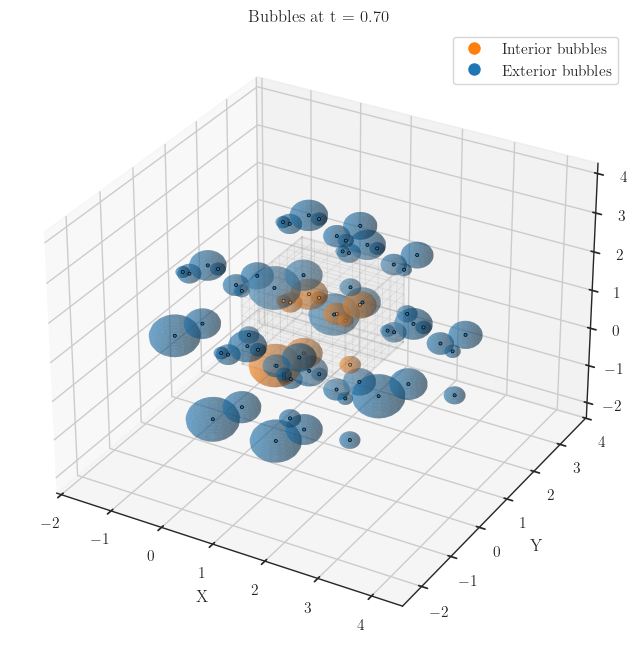
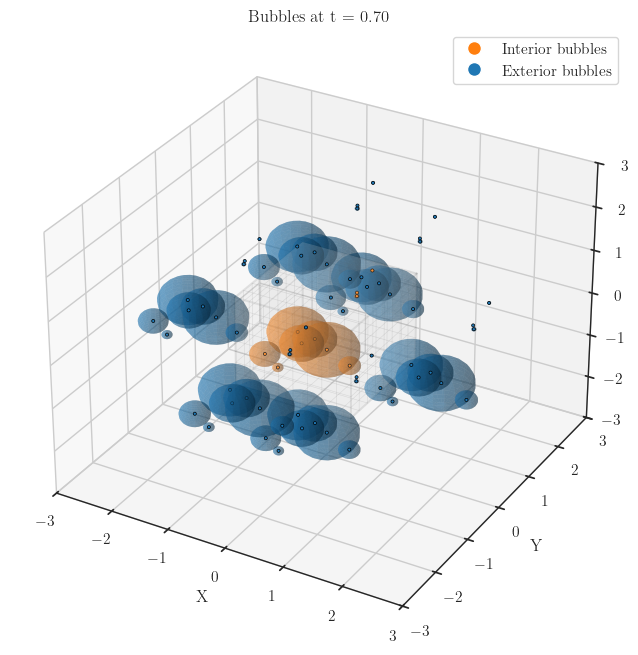
docs: update lattice_bubbles

diff --git a/docs/examples/lattice_bubbles.py b/docs/examples/lattice_bubbles.py
@@ -79,7 +79,7 @@ bubbles_interior = np.array([[0.0, 0.0, 0.0, L], [1.0, L, 0.0, 0.0]])
 bubbles_exterior = np.array([[0.0, 0.0, 0.0, 2 * L], [1.0, 3 * L, 0.0, 0.0]])
 
 # Below we create a combination of bubbles on a lattice
-lattice_bubbles_empty = many_bubbles.LatticeBubbles.with_bubbles(
+lattice_bubbles_empty = many_bubbles.LatticeBubbles(
     bubbles_interior=bubbles_interior,
     bubbles_exterior=bubbles_exterior,
     lattice=lattice_empty,
@@ -87,12 +87,12 @@ lattice_bubbles_empty = many_bubbles.LatticeBubbles.with_bubbles(
 
 # Note that is is optional to pass bubbles_exterior as an input argument
 # we can always generate the bubbles_exterior with a built-in boundary conditions later
-lattice_bubbles_cartesian = many_bubbles.LatticeBubbles.with_bubbles(
+lattice_bubbles_cartesian = many_bubbles.LatticeBubbles(
     bubbles_interior=bubbles_interior,
     bubbles_exterior=None,
     lattice=lattice_cartesian,
 )
-lattice_bubbles_spherical = many_bubbles.LatticeBubbles.with_bubbles(
+lattice_bubbles_spherical = many_bubbles.LatticeBubbles(
     bubbles_interior=bubbles_interior,
     bubbles_exterior=None,
     lattice=lattice_spherical,
@@ -111,7 +111,7 @@ lattice_bubbles_spherical.with_boundary_condition(boundary_condition="reflection
 
 try:
     bubbles_interior = np.array([[0.0, 0.0, 0.0, L], [1.0, L * 1.0001, 0.0, 0.0]])
-    lattice_bubbles = many_bubbles.LatticeBubbles.with_bubbles(
+    lattice_bubbles = many_bubbles.LatticeBubbles(
         bubbles_interior=bubbles_interior,
         bubbles_exterior=None,
         lattice=lattice_cartesian,
@@ -122,7 +122,7 @@ except Exception:
 try:
     bubbles_interior = np.array([[0.0, 0.0, 0.0, L], [1.0, L, 0.0, 0.0]])
     bubbles_exterior = np.array([[0.0, 0.0, 0.0, 0.5 * L], [1.0, 0.5 * L, 0.0, 0.0]])
-    lattice_bubbles = many_bubbles.LatticeBubbles.with_bubbles(
+    lattice_bubbles = many_bubbles.LatticeBubbles(
         bubbles_interior=bubbles_interior,
         bubbles_exterior=bubbles_exterior,
         lattice=lattice_spherical,
@@ -132,7 +132,7 @@ except Exception:
 
 try:
     bubbles_interior = np.array([[0.0, 0.0, 0.0, L], [2 * L, 0.0, 0.0, 0.0]])
-    lattice_bubbles = many_bubbles.LatticeBubbles.with_bubbles(
+    lattice_bubbles = many_bubbles.LatticeBubbles(
         bubbles_interior=bubbles_interior,
         bubbles_exterior=None,
         lattice=lattice_empty,
@@ -152,7 +152,7 @@ except Exception:
 bubbles_interior = np.array(
     [[0.0, 10.0, 0.0, 1.0], [1.0, 0.0, 10.0, 0.0], [2.0, 0.0, 0.0, 10.0]]
 )
-lattice_bubbles_cartesian = many_bubbles.LatticeBubbles.with_bubbles(
+lattice_bubbles_cartesian = many_bubbles.LatticeBubbles(
     bubbles_interior=bubbles_interior,
     bubbles_exterior=None,
     lattice=lattice_cartesian,
@@ -705,17 +705,28 @@ class LatticeBubblesVisualizer:
 
 # %%
 # Load bubbles from file, and only take the first 10 bubbles for visualization purpose
-bubbles_interior = np.loadtxt("./inputs/confY.txt")
 bubbles_interior = bubbles_interior[:10]
 
 L = 2.0
-lattice_bubbles_cartesian = many_bubbles.LatticeBubbles.with_bubbles(
-    bubbles_interior=bubbles_interior,
-    lattice=many_bubbles.CartesianLattice(
-        origin=[0.0, 0.0, 0.0], basis=[[L, 0.0, 0.0], [0.0, L, 0.0], [0.0, 0.0, L]]
-    ),
+nucleation_strategy = many_bubbles.FixedNucleationRate(
+    beta=1,
+    gamma0=1,
+    t0=0.0,
+    d_p0=0.01,
+    seed=0,
+    # Method to compute lattice volume that is outside of all bubbles. "approximation" means that volume_remaining = volume_lattice - sum_n(volume_bubble_n)
+    method="approximation",
 )
-lattice_bubbles_cartesian.with_boundary_condition("periodic")
+lattice_bubbles_cartesian = nucleation_strategy.nucleate(
+    lattice=many_bubbles.CartesianLattice(
+        origin=[-L / 2, -L / 2, -L / 2],
+        basis=[[L, 0.0, 0.0], [0.0, L, 0.0], [0.0, 0.0, L]],
+    ),
+    boundary_condition="periodic",
+)
+
+# %%
+lattice_bubbles_cartesian.bubbles_interior.shape
 
 # %%
 # Assuming you have a lattice_bubbles object
@@ -768,6 +779,9 @@ visualizer_cartesian.plot_lattice(
     fig, ax, skeleton_alpha=0.1, fill_alpha=0.1, show_grid=True
 )
 visualizer_cartesian.plot_bubbles(fig, ax, t=0.7, show_bubbles_exterior=True, alpha=0.4)
+ax.set_xlim(-1.5 * L, 1.5 * L)
+ax.set_ylim(-1.5 * L, 1.5 * L)
+ax.set_zlim(-1.5 * L, 1.5 * L)
 fig.savefig(
     f"./figures/many_bubbles/many_bubbles_at_time_cartesian.png",
     bbox_inches="tight",
@@ -776,7 +790,6 @@ fig.savefig(
 fig.show()
 
 # %%
-L = 1.0
 nucleation_strategy = many_bubbles.FixedNucleationRate(
     beta=1,
     gamma0=1,
@@ -787,9 +800,12 @@ nucleation_strategy = many_bubbles.FixedNucleationRate(
     method="approximation",
 )
 lattice_bubbles_spherical = nucleation_strategy.nucleate(
-    lattice=many_bubbles.SphericalLattice(center=[0.0, 0.0, 0.0], radius=2 * L),
+    lattice=many_bubbles.SphericalLattice(center=[0.0, 0.0, 0.0], radius=L),
     boundary_condition="reflection",
 )
+
+# %%
+lattice_bubbles_spherical.bubbles_interior.shape
 
 # %%
 # Assuming you have a lattice_bubbles object
@@ -842,6 +858,10 @@ visualizer_spherical.plot_bubbles(fig, ax, t=0.7, show_bubbles_exterior=True, al
 visualizer_spherical.plot_lattice(
     fig, ax, skeleton_alpha=0.1, fill_alpha=0.1, show_grid=True
 )
+ax.set_box_aspect((1, 1, 1))
+ax.set_xlim(-2 * L, 2 * L)
+ax.set_ylim(-2 * L, 2 * L)
+ax.set_zlim(-2 * L, 2 * L)
 fig.savefig(
     f"./figures/many_bubbles/many_bubbles_at_time_spherical.png",
     bbox_inches="tight",

diff --git a/docs/examples/generalized_bulkflow.py b/docs/examples/generalized_bulkflow.py
@@ -634,7 +634,7 @@ bubbles_interior = np.array(
 
 lattice = many_bubbles.EmptyLattice()
 
-lattice_bubbles = many_bubbles.LatticeBubbles.with_bubbles(
+lattice_bubbles = many_bubbles.LatticeBubbles(
     bubbles_interior=bubbles_interior,
     lattice=lattice,
 )
@@ -749,7 +749,7 @@ lattice = many_bubbles.CartesianLattice(
     origin=[0.0, 0.0, 0.0], basis=[[L, 0.0, 0.0], [0.0, L, 0.0], [0.0, 0.0, L]]
 )
 
-lattice_bubbles = many_bubbles.LatticeBubbles.with_bubbles(
+lattice_bubbles = many_bubbles.LatticeBubbles(
     bubbles_interior=bubbles_interior,
     lattice=lattice,
 )

diff --git a/docs/generalized_bulkflow.md b/docs/generalized_bulkflow.md
@@ -19,9 +19,9 @@ where
 \begin{align*}
     \Lambda_{ij,lm}(\hat{\mathbf{k}}) &= P_{\hat{\mathbf{k}}}^{il} P_{\hat{\mathbf{k}}}^{jm} - \dfrac{1}{2} P_{\hat{\mathbf{k}}}^{ij} P_{\hat{\mathbf{k}}}^{lm}, \qquad P_{\hat{\mathbf{k}}}^{ij} = \delta_{ij} - \hat{k}_i \hat{k}_j \\
     T_{ij}(\hat{\mathbf{k}},\omega) &=\frac{1}{2\pi}\int dt \, d^3x \, e^{i\omega(t-\hat{\mathbf{k}} \cdot \mathbf{x})}T_{ij}(\mathbf{x},t)
-    = \kappa \rho_\text{vac} v_b^3 C_{ij} (\hat{\mathbf{k}},\omega), \\
+    = \kappa \rho_\text{vac} v_w^3 C_{ij} (\hat{\mathbf{k}},\omega), \\
     C_{ij}(\hat{\mathbf{k}},\omega) &= \dfrac{1}{6 \pi} \sum_n \int dt \, e^{i \omega (t - \hat{\mathbf{k}} \cdot \mathbf{x}_n)} A_{n, ij}(\hat{\mathbf{k}},\omega), \\
-    A_{n, ij}(\hat{\mathbf{k}},\omega, t) &= \int_{S_n} d \Omega_{\mathbf{x}} \, e^{-i \omega v_b (t - t_n) \hat{\mathbf{k}} \cdot \mathbf{\hat{x}}} \hat{\mathbf{x}}_i \hat{\mathbf{x}}_j \left[ (t - t_n)^3  f(t, t_n, t_{n,c})\right]
+    A_{n, ij}(\hat{\mathbf{k}},\omega, t) &= \int_{S_n} d \Omega_{\mathbf{x}} \, e^{-i \omega v_w (t - t_n) \hat{\mathbf{k}} \cdot \mathbf{\hat{x}}} \hat{\mathbf{x}}_i \hat{\mathbf{x}}_j \left[ (t - t_n)^3  f(t, t_n, t_{n,c})\right]
 \end{align*}
 ```
 
@@ -65,7 +65,7 @@ $$
         &=  G \omega^3 \left(\left\vert \widetilde{T}_{xx} - \widetilde{T}_{yy}\right\vert^2+2 \left\vert \widetilde{T}_{xy} \right\vert^2 + 2 \left\vert\widetilde{T}_{yx} \right\vert^2 \right) \nonumber \\
         &= 4 G \rho_\text{vac}^2 \omega^3 \left( \vert C_+ \vert^2 + \vert C_- \vert^2 \right), \\
         C_\pm(\omega) &= \dfrac{1}{6 \pi} \sum_{n=1}^N \int dt \ e^{i \omega (t - z_n)} A_{n, \pm}(\omega, t), \\
-        A_{n, \pm}(\omega, t) &= \int_{-1}^1 d \cos \theta_x \ e^{-i \omega (t - t_n) \cos \theta_x} B_{n, \pm} (\cos \theta_x, t), \\
+        A_{n, \pm}(\omega, t) &= \int_{-1}^1 d \cos \theta_x \ e^{-i \omega v_w (t - t_n) \cos \theta_x} B_{n, \pm} (\cos \theta_x, t), \\
         B_{n, \pm}(\cos \theta_x, t) &= \dfrac{\sin^2 \theta_x}{2} \int_0^{2 \pi} d \phi_x \ X_\pm(\phi_x) \left[ (t - t_n)^3  f(t, t_n, t_{n,c})\right]
     \end{align}
     ```

diff --git a/README.md b/README.md
@@ -89,11 +89,11 @@ State key:
 
 | Feature                                                                                                                                       | Status |
 | :-------------------------------------------------------------------------------------------------------------------------------------------- | :----: |
-| **#bubble_dynamics**                                                                                                                          |        |
+| **# bubble_dynamics**                                                                                                                         |        |
 | Evolution of two-bubbles on lattice using leapfrog                                                                                            |   🟢    |
 | Evolution of two-bubbles on lattice using adaptive mesh refinement?                                                                           |   🔴    |
 | Extract the surface tension along the bubble wall                                                                                             |   🟢    |
-| # **bubble_gw**                                                                                                                               |        |
+| **# bubble_gw**                                                                                                                               |        |
 | Compute GW spectrum of two-bubble collision with input from $(1+1)D$ lattice simulation                                                       |   🟢    |
 | Support for common Lattices (parallelepiped, cartesian, spherical) where we attach/generate Bubbles                                           |   🟢    |
 | Support LatticeBubbles: a bundle of bubbles and lattice to perform checks on bubbles inside/outside lattice and bubbles formed inside bubbles |   🟢    |
